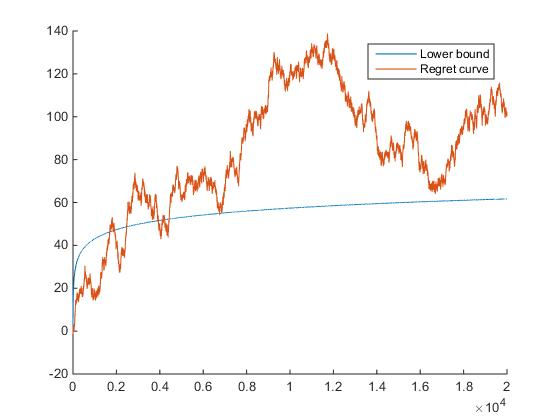
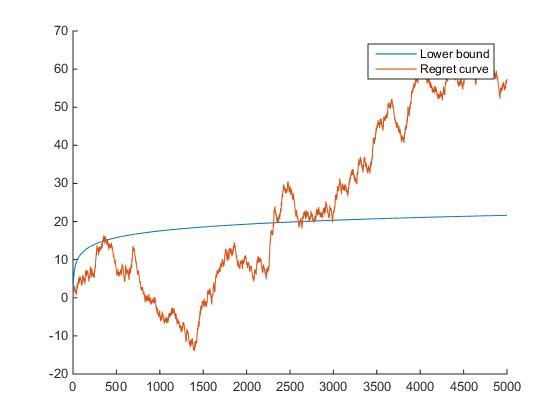
Pseudo-final report with images
To be validated

diff --git a/TP2/Report_2.tex b/TP2/Report_2.tex
@@ -29,10 +29,10 @@
 \section{Building a MAB problem}
 \hspace{-6mm} We replaced the initial parameters by :
 \begin{verbatim}
-Arm1=armBernoulli(0.4);
-Arm2=armBeta(4,6);
-Arm3=armExp(2);
-Arm4=armFinite([0.2 0.3 0.5 0.8],[0.1 0.3 0.3 0.3]);
+Arm1=armBernoulli(0.4); %mean 0.4
+Arm2=armBeta(4,12); %mean 0.25
+Arm3=armExp(9); %mean 0.11
+Arm4=armFinite([0.2 0.4 0.7 0.8],[0.1 0.3 0.3 0.3]); %mean 0.59
 
 MAB={Arm1,Arm2,Arm3,Arm4};
 \end{verbatim}
@@ -41,12 +41,12 @@ MAB={Arm1,Arm2,Arm3,Arm4};
 
 \hspace{-6mm} We implemented the naive strategy in \textit{naive.m}, simply by calling \textit{UCB.m} with parameter $\alpha = 0$.
 
-\underline{Question 1 :} We plot the regret curves for the naive strategy and the UCB algorithm for several values of $\alpha$, from 0.1 to 2 with a step of 0.1. We chose an horizon of 10000 draws of arms. We state that the final regret changes a lot if we plot it several time. For example, for the naive final regret, it can be negative, or up to 1000.
-
-However, we see that the final regret seems to be globally ascending with $\alpha$. Hence, we will take $\alpha = 0.1$.
+\underline{Question 1 :} We plot the regret curves for the naive strategy and the UCB algorithm for several values of $\alpha$, logarithmically sampled from .01 to 1. We chose an horizon of 5000 draws of arms. We state that the final regret seems to be smaller for smaller values of $\alpha$. We will keep for $\alpha$ the value which gives the minimum final regret on a particular draw, so here we got $\alpha = 0.0464$.
 
 \medskip
-The Monte-Carlo estimations of the final regret at horizon 10000 are approximately 389 for the naive algorithm, and 21.5 for the UCB algorithm with $\alpha = 0.1$.
+The Monte-Carlo estimations of the final regret at horizon 5000, with 100 trajectories simulated, are approximately 94 for the naive algorithm, and 4 for the UCB algorithm with $\alpha = 0.0464$.
+
+As expected, we see that the UCB algorithm gives better results (i.e. fewer regret) than the naive one.
 
 \begin{figure}[H]
 	\centering
@@ -60,18 +60,64 @@ We take a new MAB only composed of Bernoulli arms :
 \begin{verbatim}
 Arm5 = armBernoulli(0.2);
 Arm6 = armBernoulli(0.24);
-Arm7 = armBernoulli(0.55);
-MAB_ber ={Arm1, Arm7, Arm5, Arm6};
+Arm7 = armBernoulli(0.8);
+MAB_easy ={Arm1, Arm7, Arm5, Arm6};
 \end{verbatim}
 
-For this MAB, we find as value for the complexity $c = 6,23$.
-We plot this lower bound and the regret curve :
+For this MAB, we find as value for the complexity $c = 2,54$, which is low as the maximum mean is distant from the others.
+
+We plot the lower bound and the regret curve :
 \begin{figure}[H]
 	\centering
 	\noindent\includegraphics[scale=0.4]{complexity.jpg}
 	\caption{Lower bound and regret curve}
 \end{figure}
 
+Here, we find effectively that the regret curve is above the lower bound. It might not be the case for another draw, as the result is asymptotic. Here, we stopped at n = 5000.
+
 \section{A Bayesian idea for Bernoulli bandit problems}
+
+"Optimism" consists in letting the agent play as if the environment was the most favorable among all environments that are still sufficiently likely given the observations accumulated so far.
+
+The UCB algorithm is optimistic as because we pull the arm that has the greatest value that is statistically plausible at time t.
+
+Thompson sampling samples each action according to the probability it is optimal. So we cannot say this is an "optimistic algorithm".
+
+\underline{Question 2 :} For the "easy" bandit problem with Bernoulli arms (the same as in section 2), here is what we find :
+
+\begin{figure}[H]
+	\centering
+	\noindent\includegraphics[scale=0.4]{regret_thom_easy.jpg}
+	\caption{Lower bound and regret curves for UCB algorithm and Thompson sampling, for an "easy" problem}
+\end{figure}
+
+We then implemented this for a more "difficult"proble, as the spread between the means is smaller :
+\begin{verbatim}
+ArmDiff1 = armBernoulli(0.22);
+ArmDiff2 = armBernoulli(0.24);
+ArmDiff3 = armBernoulli(0.23);
+ArmDiff4 = armBernoulli(0.25);
+MAB_diff ={ArmDiff1, ArmDiff2, ArmDiff3, ArmDiff4};
+\end{verbatim}
+
+We now have a complexity much larger : $c = 67.7$.
+Below is the plot we obtained :
+\begin{figure}[H]
+	\centering
+	\noindent\includegraphics[scale=0.4]{regret_thom_diff.jpg}
+	\caption{Lower bound and regret curves for UCB algorithm and Thompson sampling, for a "difficult" problem}
+\end{figure}
+
+We immediately see that the horizon is not large enough to have the asymptotic result for the lower bound. For an horizon of 200000 pulls of arms, we got :
+
+
+\begin{figure}[H]
+	\centering
+	\noindent\includegraphics[scale=0.4]{regret_thom_diff2.jpg}
+	\caption{Lower bound and regret curves for UCB algorithm and Thompson sampling, for a "difficult" problem}
+\end{figure}
+
+On this example we have the lower bound.
+
 
 \end{document}
